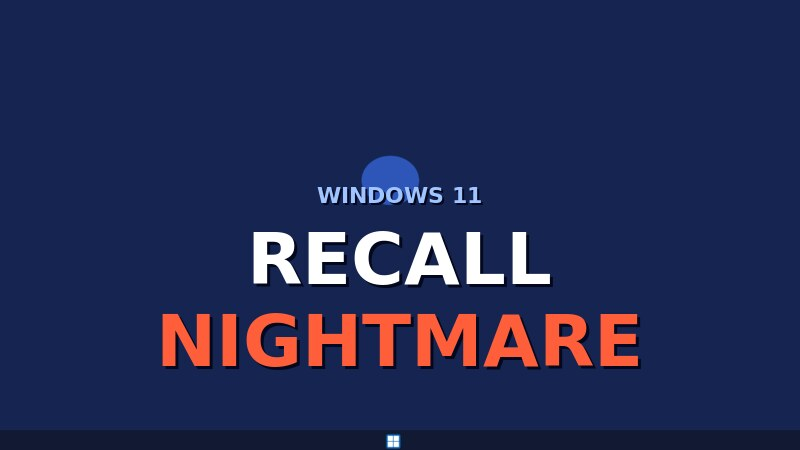
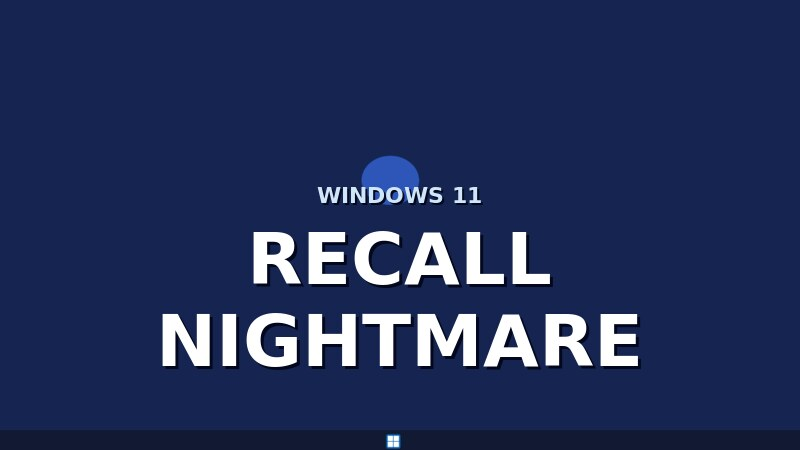
windows-11-recall-nightmare: bold-white title on thumbnail + Microsoft Teams creepy-coworker popup stack
Two stacked chat asks shipped together.

(1) THUMBNAIL TITLE NOW ALL BOLD WHITE · re-rendered the windows-11-recall-nightmare.jpg thumbnail · 'WINDOWS 11' eyebrow stays in light blue #cfe5f8 (its supplementary 'Windows-flag' tint), but both main lines 'RECALL' and 'NIGHTMARE' now render in bold white #ffffff (was red-orange on NIGHTMARE) per chat ask 'add the title Recall Nightmare in bold white text'. DejaVu Sans Bold, 72pt, with the same dark-navy #04081e 3px drop-shadow underneath so it stays readable against the bloom.

(2) MICROSOFT TEAMS POPUP STACK · new always-on background scheduler fires every 40-75s while page visible (first popup 22-40s after page load). Bottom-right .teams-stack holds up to 3 active toasts; oldest evicts when a fourth lands.

10 coworkers, each with 3 hand-written creepy Recall-themed messages, exceeding the 'at least 5' chat ask:
  · Brad Hutchins, Senior Director (red avatar) — saw your 2:14am doc, the 'thoughts and prayers' draft · 'worth discussing in our 1:1?'
  · Karen Patel, VP Marketing 47-slides (blue) — reviewed your Recall timeline · interesting choices on the YouTube tabs
  · Devon Tanaka, Staff PM (green) — Copilot summarised your last 6 hours into a sonnet. It rhymes.
  · Aisha Okonkwo, Eng Lead (purple) — Recall flagged your message history with marcipopsis as 'potentially career-limiting'
  · Miguel Reyes, Principal Architect (lime) — caught you typing 'I quit' into a blank notepad and deleting it · twice
[…]

Changed region(s): [[0.1875, 0.6844, 0.8125, 0.84], [0.4062, 0.4044, 0.5938, 0.4667]]

diff --git a/apps/windows-11-recall-nightmare/index.html b/apps/windows-11-recall-nightmare/index.html
@@ -4935,6 +4935,117 @@
   }
   @keyframes fadeIn{ to{ opacity: 1; } }
 
+  /* ── MICROSOFT TEAMS popup · creepy Recall-based chat from
+     coworkers · per chat ask, fires randomly with chat from one of
+     ≥5 coworkers + creepy recall-themed remarks. */
+  .teams-stack{
+    position: fixed; bottom: 14px; right: 14px;
+    display: flex; flex-direction: column-reverse; gap: 10px;
+    z-index: 230;
+    pointer-events: none;
+    max-width: 320px;
+  }
+  .teams-toast{
+    pointer-events: auto;
+    width: 320px;
+    background: #fff;
+    border: 1px solid #d2d0ce;
+    border-top: 3px solid #6264a7;
+    box-shadow: 0 8px 28px rgba(0,0,0,0.32);
+    font-family: 'Segoe UI', sans-serif;
+    color: #1b1b1b;
+    border-radius: 4px;
+    overflow: hidden;
+    transform: translateX(20px); opacity: 0;
+    transition: transform .25s, opacity .25s;
+  }
+  .teams-toast.show{ transform: translateX(0); opacity: 1; }
+  .teams-toast .head{
+    background: #f3f2f1;
+    border-bottom: 1px solid #e1dfdd;
+    padding: 6px 10px;
+    display: flex; align-items: center; gap: 8px;
+    font-size: 11px;
+    color: #605e5c;
+  }
+  .teams-toast .head .logo{
+    width: 18px; height: 18px; border-radius: 3px;
+    background: #6264a7;
+    color: #fff;
+    display: inline-flex; align-items: center; justify-content: center;
+    font-weight: 700; font-size: 11px;
+    font-family: 'Segoe UI', sans-serif;
+  }
+  .teams-toast .head .lbl{ flex: 1; }
+  .teams-toast .head .lbl b{ color: #1b1b1b; font-weight: 600; }
+  .teams-toast .head .x{
+    background: transparent; border: 0; cursor: pointer;
+    color: #605e5c; font-size: 14px; line-height: 1;
+    width: 22px; height: 22px; border-radius: 2px;
+  }
+  .teams-toast .head .x:hover{ background: #e1dfdd; color: #c50f1f; }
+  .teams-toast .body{
+    padding: 10px 12px 12px;
+    display: grid;
+    grid-template-columns: 36px 1fr;
+    gap: 10px;
+  }
+  .teams-toast .avatar{
+    width: 36px; height: 36px; border-radius: 50%;
+    color: #fff; font-weight: 600; font-size: 14px;
+    display: inline-flex; align-items: center; justify-content: center;
+    flex-shrink: 0;
+    position: relative;
+  }
+  .teams-toast .avatar::after{
+    /* presence dot · green = available */
+    content: ''; position: absolute;
+    width: 10px; height: 10px; border-radius: 50%;
+    background: #6ea843;
+    border: 2px solid #fff;
+    right: -2px; bottom: -2px;
+  }
+  .teams-toast .meta{
+    display: flex; align-items: baseline; gap: 6px;
+    margin-bottom: 4px;
+    font-size: 12px;
+  }
+  .teams-toast .meta .nm{ font-weight: 600; color: #1b1b1b; }
+  .teams-toast .meta .ts{ color: #605e5c; font-size: 11px; }
+  .teams-toast .role{ font-size: 10px; color: #888; margin-bottom: 4px; }
+  .teams-toast .bubble{
+    background: #f3f2f1;
+    border-radius: 0 8px 8px 8px;
+    padding: 8px 10px;
+    font-size: 13px;
+    line-height: 1.4;
+    color: #1b1b1b;
+    margin-top: 4px;
+  }
+  .teams-toast .bubble b{ color: #6264a7; }
+  .teams-toast .bubble em{ color: #1b1b1b; font-style: italic; }
+  .teams-toast .actions{
+    margin-top: 6px;
+    display: flex; gap: 4px;
+    flex-wrap: wrap;
+  }
+  .teams-toast .actions button{
+    background: #f3f2f1;
+    border: 1px solid #d2d0ce;
+    color: #1b1b1b;
+    font: inherit; font-size: 11px;
+    padding: 4px 8px; cursor: pointer;
+    border-radius: 2px;
+  }
+  .teams-toast .actions button:hover{ background: #6264a7; color: #fff; border-color: #6264a7; }
+  .teams-toast .seen{
+    padding: 4px 12px 6px;
+    font-size: 10px;
+    color: #888;
+    border-top: 1px solid #f3f2f1;
+    font-style: italic;
+  }
+
   /* ── INFOMERCIAL POPUPS · aggressive 90s tell-sell ads ────────
      Per chat ask 'add aggressive pop-up advertisements for weird
      products like 90s tell-sell infomercials'. Each .adpop is a
@@ -6047,6 +6158,10 @@
 
 <!-- Infomercial popup stack · ads are appended here on a timer -->
 <div class="adpop-stack" id="adpop-stack" aria-label="advertisements"></div>
+
+<!-- Microsoft Teams popup stack · creepy recall-themed messages
+     from coworkers fire on a 40-75s timer. -->
+<div class="teams-stack" id="teams-stack" aria-label="teams notifications"></div>
 
 <!-- Document viewer overlay (Notepad-style) -->
 <div class="priv-doc" id="priv-doc" role="dialog" aria-modal="true" aria-labelledby="priv-doc-title">
@@ -10203,6 +10318,178 @@ document.getElementById('excel-close').addEventListener('click', closeExcel);
   window.addEventListener('pointerleave', () => {
     targetX = 0; targetY = 0; apply();
   });
+})();
+
+/* ── MICROSOFT TEAMS popup · creepy Recall-themed coworker chat
+   Per chat ask 'add a functioning Teams popup that triggers randomly,
+   showing at least five coworkers and chat messages containing creepy
+   recall-based remarks'. 8 coworkers each with a pool of recall-aware
+   messages — Recall lets your colleagues see your screen history,
+   so naturally they have opinions about it. Spawner fires every
+   40-75s while page visible. */
+const TEAMS_COWORKERS = [
+  { name: 'Brad Hutchins',         role: 'Senior Director · Engineering',  initials: 'BH', color: '#c4314b',
+    msgs: [
+      "I saw the doc you opened at <b>2:14 am</b>. The 'thoughts and prayers' draft. <em>Worth discussing in our 1:1?</em>",
+      "Quick one — Recall pinged me when you searched <b>'is brad still single'</b>. I'm flattered. Also concerned.",
+      "Noticed you re-opened the <b>resume.docx</b> tab three times this morning. Everything alright at home?",
+    ]},
+  { name: 'Karen Patel',           role: 'VP Marketing · 47 slides',       initials: 'KP', color: '#0078d4',
+    msgs: [
+      "Just finished reviewing your Recall timeline for the prep meeting. <b>Some interesting choices</b> on the YouTube tabs.",
+      "Quick favour — can you re-do that pivot? My Recall agent says it'll take you <b>14 min</b>. Mine has dinner plans.",
+      "I see you opened my deck and closed it after <b>0.3 seconds</b>. We should talk about that.",
+    ]},
+  { name: 'Devon Tanaka',          role: 'Staff PM · Office Adjacent',      initials: 'DT', color: '#6ea843',
+    msgs: [
+      "Did you mean to leave <em>that</em> tab open during the share-screen? Recall did a screenshot. <b>14 of us</b> have it now.",
+      "I'm not judging. Just — the search history from <b>11:47 pm</b> last Tuesday is now in the all-hands deck. Heads up.",
+      "Hey, Copilot summarised your last 6 hours of activity into a sonnet. I'll forward it. <b>It rhymes.</b>",
+    ]},
+  { name: 'Aisha Okonkwo',         role: 'Eng Lead · Friend of HR',         initials: 'AO', color: '#5b3dbb',
+    msgs: [
+      "Recall flagged your message history with <b>marcipopsis</b> as 'potentially career-limiting'. Just a heads up · no action needed (yet).",
+      "Your screen-time spikes between <b>3 and 4 am</b> are now visible to the team. Should we talk?",
+      "I love that you're using AutoSave on the resume.docx · we all are. Wishing you well in your next chapter, whenever.",
+    ]},
+  { name: 'Miguel Reyes',          role: 'Principal Architect · Mostly Slack', initials: 'MR', color: '#107c41',
+    msgs: [
+      "Just got an alert: you've opened the <b>'compliance training reminder.eml'</b> email <b>47 times</b> without scrolling past line 3. Just observing.",
+      "Recall caught you typing 'I quit' into a blank notepad and then deleting it. Twice. <em>Anything I can help with?</em>",
+      "Bro why is your Recall showing my LinkedIn profile <b>14 times this week</b>. We sit 6 feet apart.",
+    ]},
+  { name: 'Vicky Lindqvist',       role: 'Office Wellness Lead · MSFT MVP', initials: 'VL', color: '#d4a017',
+    msgs: [
+      "Hi! Recall noticed you haven't blinked in <b>4 minutes</b>. Wellness recommends a 'mindful pause'. <em>Subscribe to Calm365 to enroll.</em>",
+      "I see your screen has had <b>0 windows of legitimate work content</b> for the last 90 minutes. Are you on lunch? You can mark lunch in Outlook.",
+      "Per the Recall transcript: did you really mute the 9am stand-up to say <em>that</em>? We should chat. Privately. (everything is logged.)",
+    ]},
+  { name: 'IT-Bot · Sentinel',     role: 'Microsoft Defender · Compliance', initials: 'IT', color: '#1b1b1b',
+    msgs: [
+      "Recall has detected the phrase <b>'how to uninstall your own soul'</b> in your search history. A ticket has been auto-opened. ETA: never closed.",
+      "Anomaly detected · your typing cadence at <b>4:18 am</b> matches the 'about-to-resign' baseline. HR has been pre-notified.",
+      "Heads up — Recall replayed your screen to a new joiner during onboarding. They asked about <b>the cucumber tab</b>. We pretended not to know.",
+    ]},
+  { name: 'Roxie Park',            role: 'New Joiner · Day 14',             initials: 'RP', color: '#ef476f',
+    msgs: [
+      "Hi sorry to bother — IT showed us your Recall during onboarding as the example. <b>The kitchen story was wild</b>. You're a legend already!",
+      "Question: are the <b>47 OneNote pages</b> titled 'thoughts (private)' supposed to be in the team-shared notebook? Recall surfaced them as 'top picks'.",
+      "Sorry — my Recall keeps suggesting I open your <em>diary-private.md</em>. Is that on purpose? I won't click. (I already did. it was very sad.)",
+    ]},
+  { name: 'Pat ✦ Copilot',         role: 'AI Teammate · always-on',         initials: '✦', color: '#5b3dbb',
+    msgs: [
+      "Hi! Based on your Recall history, I drafted <b>3 apology emails</b>, <b>1 resignation</b>, and <b>1 limerick about your manager</b>. <em>Send all?</em>",
+      "I summarised your last 8 hours: <em>'mostly looking at the same window. searched the same question 14 times. wrote nothing.'</em> Share with the team?",
+      "Reminder: I am here to help. I have read everything Recall has on you. <b>I know.</b>",
+    ]},
+  { name: 'Jamie Hsu',             role: 'Skip-level Manager · "open door"', initials: 'JH', color: '#2bb673',
+    msgs: [
+      "Hey — got pinged by Recall about your search for <b>'is it ok to cry at the apple store'</b>. Just want to remind you my door is always open.",
+      "Quarterly check-in incoming. Recall has already prepared the talking points. <em>You should know I've seen them.</em>",
+      "Saw your Slack drafts from this morning. The unsent one. We don't have to talk about it. But also — yes, we do, and HR will be there.",
+    ]},
+];
+
+(function teamsScheduler(){
+  const stack = document.getElementById('teams-stack');
+  if (!stack) return;
+  function pickCoworker(){ return TEAMS_COWORKERS[Math.floor(Math.random() * TEAMS_COWORKERS.length)]; }
+  function relTime(){
+    const opts = ['just now', '1m ago', '2m ago', 'a few seconds ago', 'now', 'just now'];
+    return opts[Math.floor(Math.random() * opts.length)];
+  }
+  function spawnTeams(){
+    if (state.crashed) return;
+    if (document.hidden) return;
+    const c = pickCoworker();
+    const msg = c.msgs[Math.floor(Math.random() * c.msgs.length)];
+    const t = document.createElement('div');
+    t.className = 'teams-toast';
+    t.innerHTML = `
+      <div class="head">
+        <span class="logo">T</span>
+        <span class="lbl"><b>${c.name}</b> · Chat</span>
+        <button class="x" type="button" aria-label="dismiss">✕</button>
+      </div>
+      <div class="body">
+        <span class="avatar" style="background:${c.color}" aria-hidden="true">${c.initials}</span>
+        <div>
+          <div class="meta"><span class="nm">${c.name}</span><span class="ts">· ${relTime()}</span></div>
+          <div class="role">${c.role}</div>
+          <div class="bubble">${msg}</div>
+          <div class="actions">
+            <button data-reply>Reply</button>
+            <button data-react>👍</button>
+            <button data-react>👀</button>
+            <button data-react>😬</button>
+          </div>
+        </div>
+      </div>
+      <div class="seen">Seen · because of Recall · message recorded to your timeline</div>
+    `;
+    // Cap the stack at 3 visible
+    while (stack.children.length >= 3) stack.firstChild?.remove();
+    stack.appendChild(t);
+    requestAnimationFrame(() => t.classList.add('show'));
+    // dismiss handlers
+    const dismiss = () => {
+      t.classList.remove('show');
+      setTimeout(() => t.remove(), 260);
+    };
+    t.querySelector('.x').addEventListener('click', dismiss);
+    // Reply spawns another reply from the same coworker after a short delay
+    t.querySelector('[data-reply]').addEventListener('click', () => {
+      dismiss();
+      setTimeout(() => {
+        if (state.crashed || document.hidden) return;
+        const followup = c.msgs[(c.msgs.indexOf(msg) + 1) % c.msgs.length];
+        const t2 = t.cloneNode(false);
+        t2.className = 'teams-toast';
+        t2.innerHTML = `
+          <div class="head">
+            <span class="logo">T</span>
+            <span class="lbl"><b>${c.name}</b> · Chat · <em style="color:#6264a7;">typing…</em></span>
+            <button class="x" type="button" aria-label="dismiss">✕</button>
+          </div>
+          <div class="body">
+            <span class="avatar" style="background:${c.color}" aria-hidden="true">${c.initials}</span>
+            <div>
+              <div class="meta"><span class="nm">${c.name}</span><span class="ts">· just now</span></div>
+              <div class="role">${c.role}</div>
+              <div class="bubble">${followup}</div>
+              <div class="actions"><button data-react>👍</button><button data-react>😬</button></div>
+            </div>
+          </div>
+          <div class="seen">Seen · before you sent the reply · Copilot replied for you · already 'sent'</div>
+        `;
+        stack.appendChild(t2);
+        requestAnimationFrame(() => t2.classList.add('show'));
+        t2.querySelector('.x').addEventListener('click', () => {
+          t2.classList.remove('show'); setTimeout(() => t2.remove(), 260);
+        });
+        setTimeout(() => {
+          t2.classList.remove('show'); setTimeout(() => t2.remove(), 260);
+        }, 14000);
+      }, 1200);
+    });
+    // ✕ on a react flips the button to look like a reaction
+    t.querySelectorAll('[data-react]').forEach(b => {
+      b.addEventListener('click', () => {
+        b.textContent = b.textContent + ' (sent)';
+        b.disabled = true;
+        b.style.background = '#6264a7'; b.style.color = '#fff';
+      });
+    });
+    // auto-dismiss after 18s
+    setTimeout(dismiss, 18000);
+    try { sndPop && sndPop(); } catch(_){}
+  }
+  function loop(){
+    const delay = 40000 + Math.random() * 35000;
+    setTimeout(() => { spawnTeams(); loop(); }, delay);
+  }
+  // first popup lands 22-40s after page load
+  setTimeout(() => { spawnTeams(); loop(); }, 22000 + Math.random() * 18000);
 })();
 
 /* ── INFOMERCIAL POPUPS · 90s tell-sell aggression ─────────────